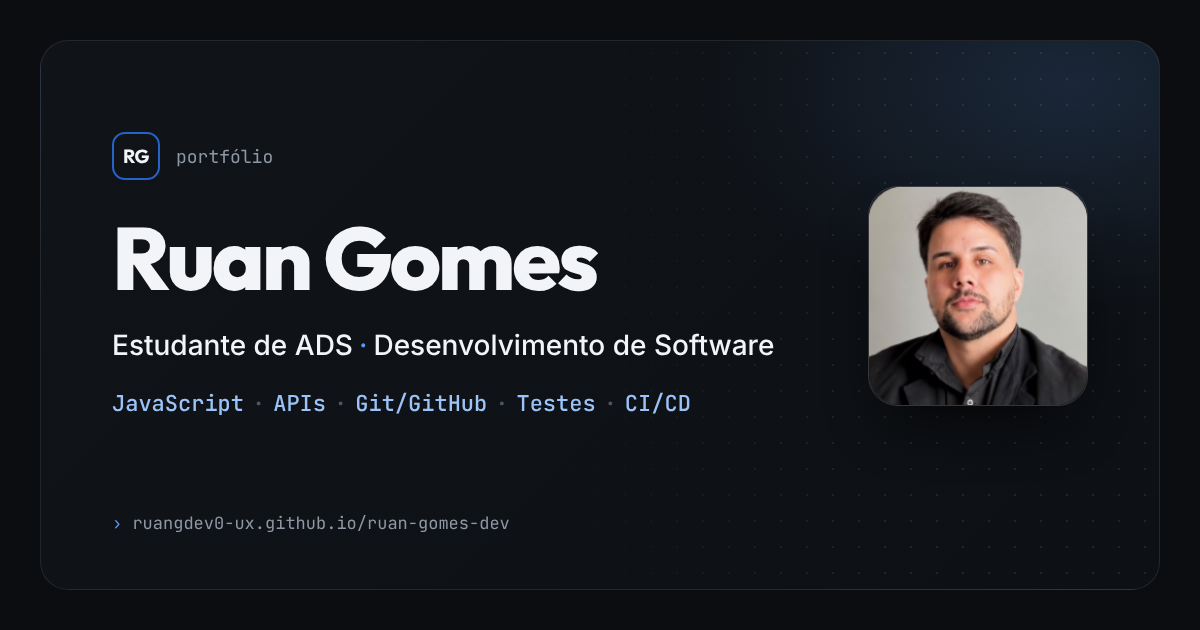
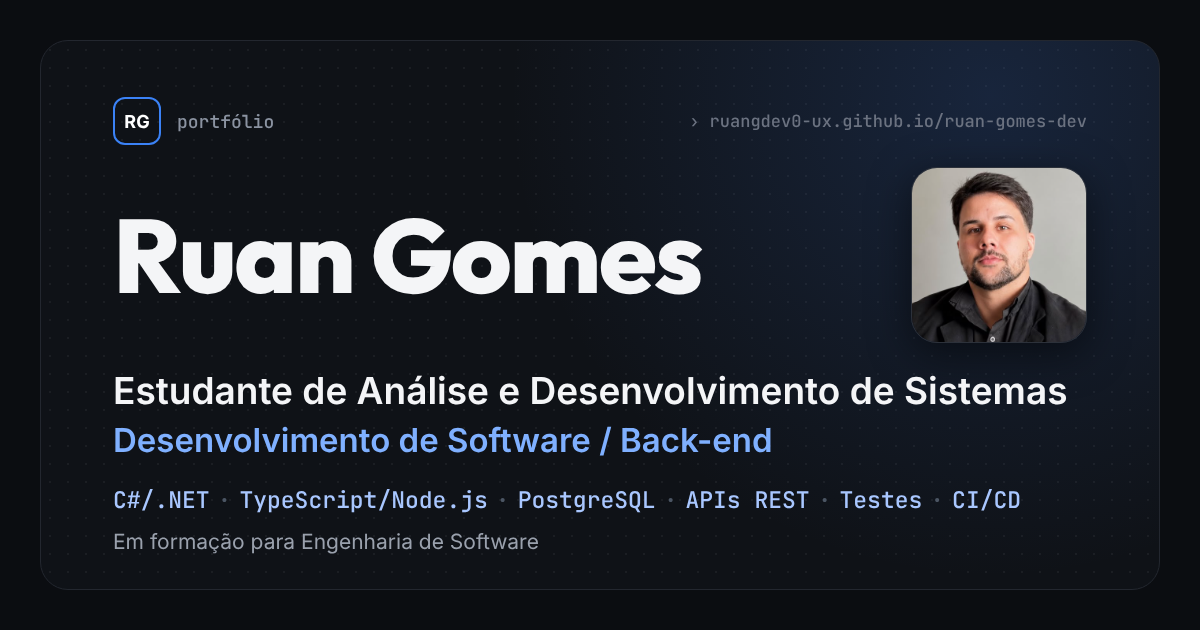
Nova imagem de prévia (Open Graph) com o nome completo do curso

diff --git a/index.html b/index.html
@@ -18,16 +18,16 @@
   <meta property="og:title" content="Ruan Gomes · Estudante de Análise e Desenvolvimento de Sistemas · Desenvolvimento de Software e Back-end">
   <meta property="og:description" content="Estudante de Análise e Desenvolvimento de Sistemas com foco em back-end: projetos com C#/.NET, TypeScript/Node.js, PostgreSQL, testes e CI/CD.">
   <meta property="og:url" content="https://ruangdev0-ux.github.io/ruan-gomes-dev/">
-  <meta property="og:image" content="https://ruangdev0-ux.github.io/ruan-gomes-dev/assets/images/og-image.png?v=3">
+  <meta property="og:image" content="https://ruangdev0-ux.github.io/ruan-gomes-dev/assets/images/og-image.png?v=4">
   <meta property="og:image:type" content="image/png">
   <meta property="og:image:width" content="1200">
   <meta property="og:image:height" content="630">
-  <meta property="og:image:alt" content="Ruan Gomes — Estudante de ADS · Desenvolvimento de Software. JavaScript, APIs, Git/GitHub, testes e CI/CD, com a foto de Ruan Gomes">
+  <meta property="og:image:alt" content="Ruan Gomes — Estudante de Análise e Desenvolvimento de Sistemas · Desenvolvimento de Software / Back-end. C#/.NET, TypeScript/Node.js, PostgreSQL, APIs REST, testes e CI/CD. Em formação para Engenharia de Software. Com a foto de Ruan Gomes">
   <meta name="twitter:card" content="summary_large_image">
   <meta name="twitter:title" content="Ruan Gomes · Estudante de Análise e Desenvolvimento de Sistemas · Desenvolvimento de Software e Back-end">
   <meta name="twitter:description" content="Estudante de Análise e Desenvolvimento de Sistemas com foco em back-end: projetos com C#/.NET, TypeScript/Node.js, PostgreSQL, testes e CI/CD.">
-  <meta name="twitter:image" content="https://ruangdev0-ux.github.io/ruan-gomes-dev/assets/images/og-image.png?v=3">
-  <meta name="twitter:image:alt" content="Ruan Gomes — Estudante de ADS · Desenvolvimento de Software. JavaScript, APIs, Git/GitHub, testes e CI/CD, com a foto de Ruan Gomes">
+  <meta name="twitter:image" content="https://ruangdev0-ux.github.io/ruan-gomes-dev/assets/images/og-image.png?v=4">
+  <meta name="twitter:image:alt" content="Ruan Gomes — Estudante de Análise e Desenvolvimento de Sistemas · Desenvolvimento de Software / Back-end. C#/.NET, TypeScript/Node.js, PostgreSQL, APIs REST, testes e CI/CD. Em formação para Engenharia de Software. Com a foto de Ruan Gomes">
 
   <link rel="icon" href="assets/icons/favicon.svg" type="image/svg+xml">
   <link rel="icon" href="assets/icons/favicon-32.png" sizes="32x32" type="image/png">
